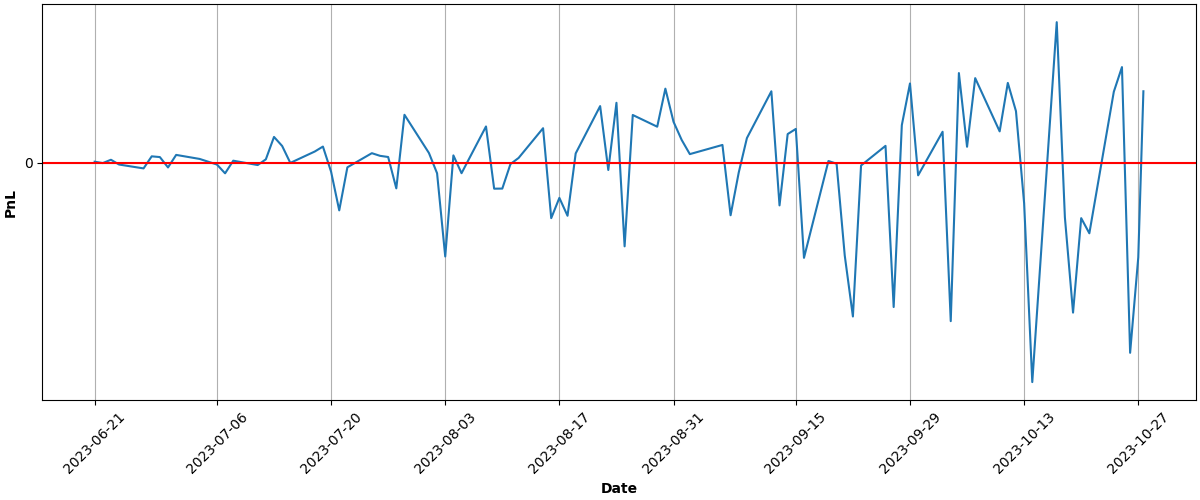
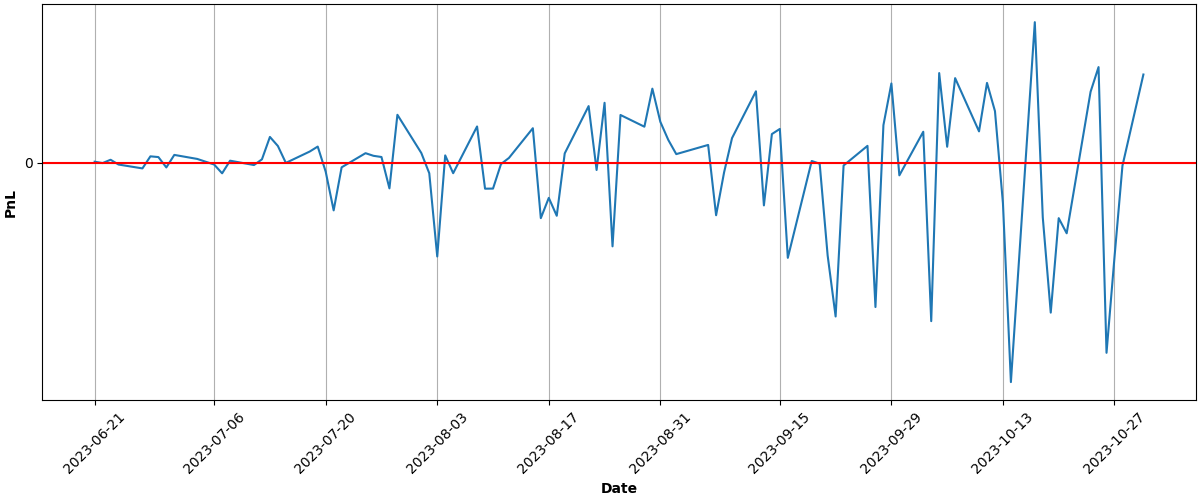
Automated Buy At Mon Oct 30 15:04:43 UTC 2023 Run ID 6694724464

diff --git a/README.md b/README.md
@@ -68,9 +68,9 @@ Results
 
 | Asset | Average Price | Current Price | ROI | 📈 |
 | --- | --- | --- | --- | --- |
-| FNGU | $172.625214054 | $134.75 | -21.94% | &#128308;&#128546; |
-| SVIX | $28.015178947 | $24.07 | -14.08% | &#128308;&#128546; |
-| **Total** |  |  | **-17.77%** | &#128308;&#128557; |
+| FNGU | $172.177448046 | $138.4499 | -19.59% | &#128308;&#128546; |
+| SVIX | $28.015178947 | $23.8 | -15.05% | &#128308;&#128546; |
+| **Total** |  |  | **-17.19%** | &#128308;&#128557; |
 
 ### PnL over time (calculations may not be accurate):
 
@@ -81,6 +81,6 @@ Results
 ---
 
 
-Updated at 2023-10-27 15:04:56
+Updated at 2023-10-30 15:05:09
 
 
